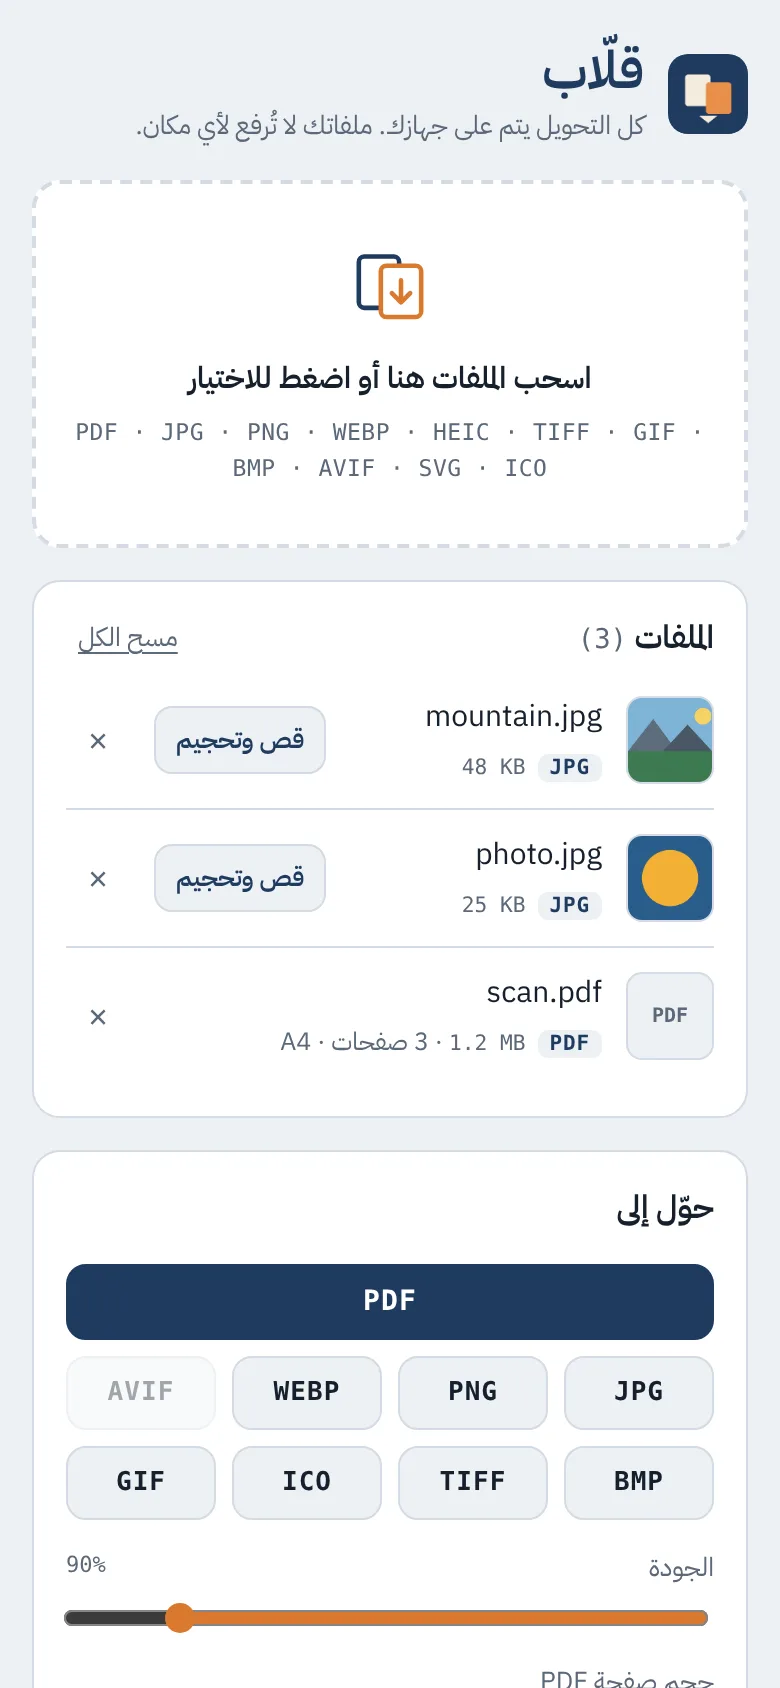
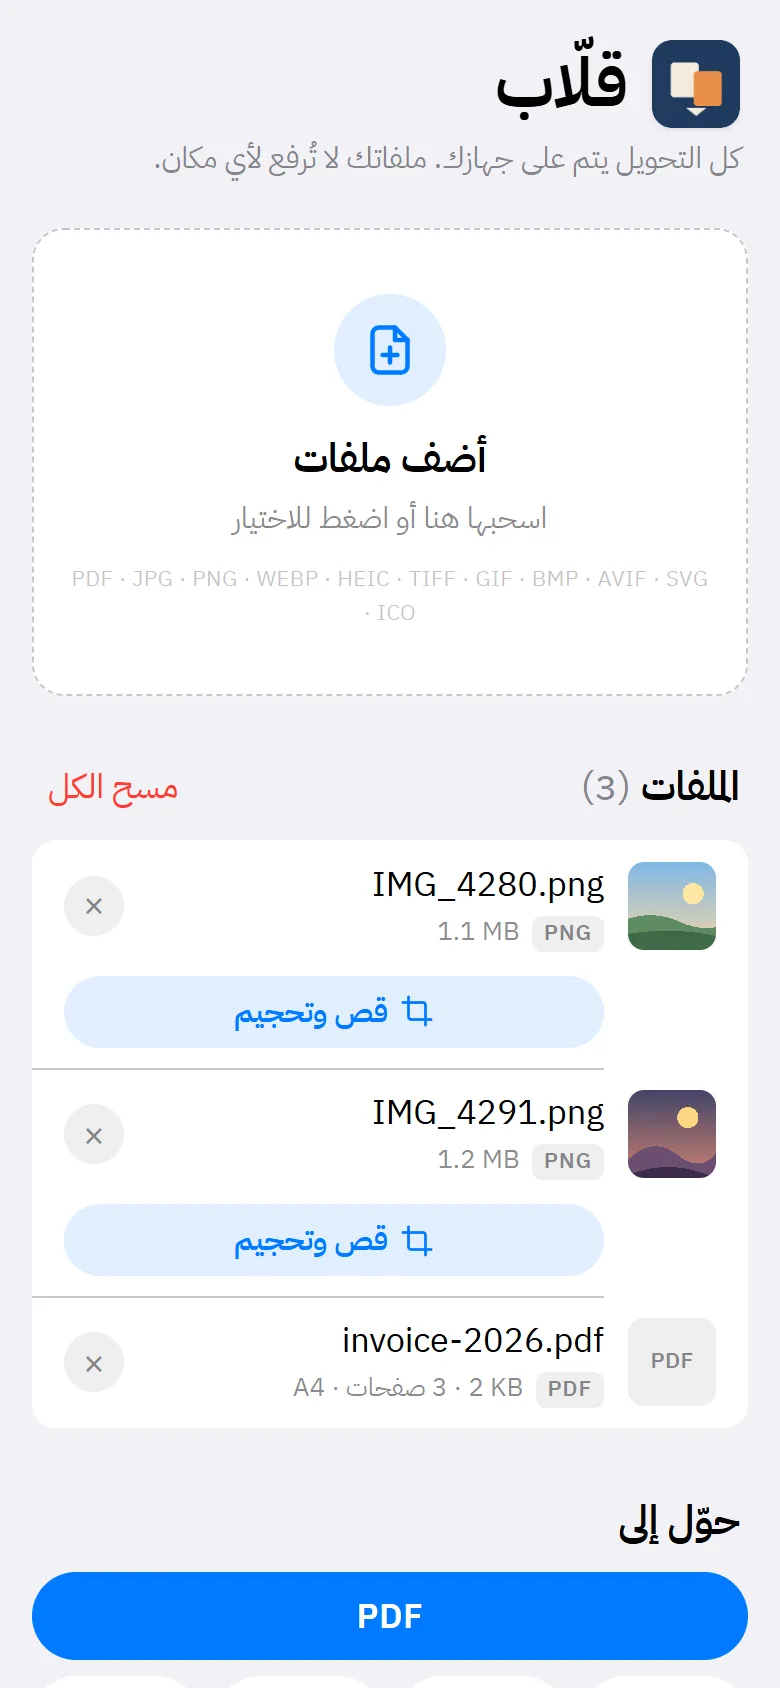
README: لقطات الواجهة الجديدة وقسم التصميم
- لقطات جديدة للشاشة الرئيسية (فاتح وداكن حسب وضع GitHub) والمحرر والناتج والمعاينة
- قسم «التصميم» عن نهج Apple HIG، وألوان الشارات من ألوان النظام
- تحديث خطوات الاستخدام والتثبيت وشجرة الملفات وطريقة تحديث الكاش

diff --git a/README.md b/README.md
@@ -16,14 +16,17 @@
 </p>
 
 <p align="center">
-  <img alt="PWA" src="https://img.shields.io/badge/PWA-installable-1F3A5F">
-  <img alt="Offline" src="https://img.shields.io/badge/works-offline-2E7D57">
-  <img alt="Privacy" src="https://img.shields.io/badge/files-stay_on_device-D9792E">
-  <img alt="No build" src="https://img.shields.io/badge/build_step-none-5B6878">
+  <img alt="PWA" src="https://img.shields.io/badge/PWA-installable-007AFF">
+  <img alt="Offline" src="https://img.shields.io/badge/works-offline-34C759">
+  <img alt="Privacy" src="https://img.shields.io/badge/files-stay_on_device-FF9500">
+  <img alt="No build" src="https://img.shields.io/badge/build_step-none-8E8E93">
 </p>
 
 <p align="center">
-  <img src="docs/home-light.webp" width="190" alt="الشاشة الرئيسية">
+  <picture>
+    <source media="(prefers-color-scheme: dark)" srcset="docs/home-dark.webp">
+    <img src="docs/home-light.webp" width="190" alt="الشاشة الرئيسية">
+  </picture>
   <img src="docs/editor.webp" width="190" alt="محرر القص والتحجيم">
   <img src="docs/results.webp" width="190" alt="قائمة الملفات الناتجة">
   <img src="docs/viewer.webp" width="190" alt="معاينة الناتج">
@@ -34,6 +37,17 @@
 ## ليش قلّاب؟
 
 أغلب مواقع التحويل ترفع ملفاتك لخوادمها: عقود، هويات، صور شخصية. **قلّاب** يسوي كل شي داخل المتصفح، فالملف ما يطلع من جهازك أبداً. تثبّته على الجوال مثل أي تطبيق، ويشتغل في الطيارة أو بدون شبكة بعد أول فتح.
+
+## التصميم
+
+واجهة على نهج **إرشادات أبل للتصميم (Apple HIG)**، تحس فيها كأنك في تطبيق آيفون أصلي:
+
+- **خط النظام**: SF Arabic على أجهزة أبل، وIBM Plex Sans Arabic على باقي الأجهزة.
+- **قوائم مجمّعة** للملفات والخيارات مثل شاشة الإعدادات، مع مفتاح تبديل وشريط تمرير وقوائم اختيار.
+- **أزرار كبسولية** بمساحة لمس لا تقل عن 44 نقطة.
+- **نوافذ منبثقة من الأسفل** للمحرر والمعاينة، بمقبض سحب، و«إلغاء» و«حفظ» في الشريط العلوي.
+- **فاتح وداكن** تلقائياً حسب إعدادات جهازك، ومصمم من اليمين لليسار بالكامل.
+- يحترم إعداد **تقليل الحركة** في الجهاز.
 
 ## الميزات
 
@@ -85,14 +99,14 @@
 ## طريقة الاستخدام
 
 1. اسحب الملفات للصفحة، أو اضغط لاختيارها، أو الصقها مباشرة.
-2. اختر **قص وتحجيم** بجانب أي صورة لو تبغى تعدّلها (اختياري).
+2. اضغط زر **قص وتحجيم** تحت أي صورة لو تبغى تعدّلها (اختياري).
 3. اختر الصيغة المطلوبة، واضبط الجودة والدقة والمقاس.
 4. اضغط **حوّل**، ثم اضغط أي ملف ناتج لمعاينته وتنزيله أو حفظه أو مشاركته.
 
 ## التثبيت على الجوال
 
 - **آيفون (Safari)**: زر المشاركة ← **إضافة إلى الشاشة الرئيسية**.
-- **أندرويد (Chrome)**: زر **تثبيت التطبيق** أعلى الصفحة، أو قائمة المتصفح ← **تثبيت**.
+- **أندرويد (Chrome)**: زر **تثبيت** بجانب العنوان، أو قائمة المتصفح ← **تثبيت**.
 - **الكمبيوتر (Chrome / Edge)**: أيقونة التثبيت في شريط العنوان.
 
 بعد التثبيت يفتح التطبيق في نافذة مستقلة ويشتغل بدون إنترنت.
@@ -120,14 +134,15 @@
 ```
 qallab/
 ├── index.html             الواجهة
-├── styles.css             التصميم (فاتح وداكن)
+├── design-tokens.css      متغيرات تصميم أبل: الألوان والخطوط والمسافات (فاتح وداكن)
+├── styles.css             تصميم الواجهة فوق المتغيرات
 ├── app.js                 التحويل والترميز وبناء PDF
 ├── editor.js              محرر القص والتحجيم ومقاسات الدقة
 ├── viewer.js              المعاينة والتنزيل والحفظ والمشاركة
 ├── sw.js                  Service Worker للعمل بدون إنترنت
 ├── manifest.webmanifest   بيانات تثبيت التطبيق
 ├── lib/                   المكتبات (محلية)
-├── fonts/                 خط IBM Plex Sans Arabic
+├── fonts/                 خط IBM Plex Sans Arabic (بديل لخط النظام)
 ├── icons/                 أيقونات التطبيق
 └── docs/                  لقطات الشاشة
 ```
@@ -149,7 +164,10 @@ python3 -m http.server 8080
 
 ### عند التحديث
 
-غيّر رقم الإصدار في أول سطر من `sw.js`، مثلاً `qallab-v5` إلى `qallab-v6`، عشان الأجهزة المثبّت عليها التطبيق تحمّل النسخة الجديدة. وإذا أضفت ملفاً جديداً، أضفه لقائمة `ASSETS` في نفس الملف.
+- الصفحة وملفات CSS وJavaScript تُجلب من الشبكة أولاً، فأي تحديث تنشره يظهر للمستخدم أول ما يفتح التطبيق وهو متصل. الكاش يُستخدم فقط بدون إنترنت.
+- المكتبات والخطوط والأيقونات تُقدَّم من الكاش أولاً لأنها ما تتغير.
+- غيّر رقم الكاش في أول سطر من `sw.js`، مثلاً `qallab-v10` إلى `qallab-v11`، ورقم الإصدار أسفل `index.html`، عشان النسخة المحفوظة للعمل بدون إنترنت تتحدث.
+- إذا أضفت ملفاً جديداً، أضفه لقائمة `ASSETS` في `sw.js`.
 
 ### المكتبات
 
@@ -161,7 +179,7 @@ python3 -m http.server 8080
 | [UTIF.js](https://github.com/photopea/UTIF.js) | 3.1.0 | قراءة وكتابة TIFF | MIT |
 | [pako](https://github.com/nodeca/pako) | 2.1.0 | فك ضغط TIFF | MIT / Zlib |
 | [JSZip](https://github.com/Stuk/jszip) | 3.10.1 | تنزيل الكل كـ ZIP | MIT |
-| [IBM Plex Sans Arabic](https://github.com/IBM/plex) | 5.0.20 | الخط | OFL-1.1 |
+| [IBM Plex Sans Arabic](https://github.com/IBM/plex) | 5.0.20 | الخط البديل خارج أجهزة أبل | OFL-1.1 |
 
 مُرمّزات BMP وICO وGIF مكتوبة داخل `app.js` بدون مكتبات.
 
@@ -173,6 +191,6 @@ python3 -m http.server 8080
 
 ### English
 
-**Qallab** (Arabic for *the one who flips things over*) is an installable, offline-first PWA that converts images to PDF and back, and between image formats: JPG, PNG, WEBP, AVIF, HEIC, TIFF, GIF, BMP, ICO and SVG. Everything runs locally in the browser, so files never leave the device. It also merges PDFs, compresses PDFs, shows the exact pixel size for each DPI, and includes a crop / rotate / resize editor, an output viewer, and download, save-to-Photos and share actions. No build step: serve the folder over HTTPS (e.g. GitHub Pages) and it works.
+**Qallab** (Arabic for *the one who flips things over*) is an installable, offline-first PWA that converts images to PDF and back, and between image formats: JPG, PNG, WEBP, AVIF, HEIC, TIFF, GIF, BMP, ICO and SVG. Everything runs locally in the browser, so files never leave the device. It also merges PDFs, compresses PDFs, shows the exact pixel size for each DPI, and includes a crop / rotate / resize editor, an output viewer, and download, save-to-Photos and share actions. The interface follows Apple's Human Interface Guidelines (system font, inset grouped lists, capsule buttons, bottom sheets) in automatic light and dark mode, fully right-to-left. No build step: serve the folder over HTTPS (e.g. GitHub Pages) and it works.
 
 </div>
